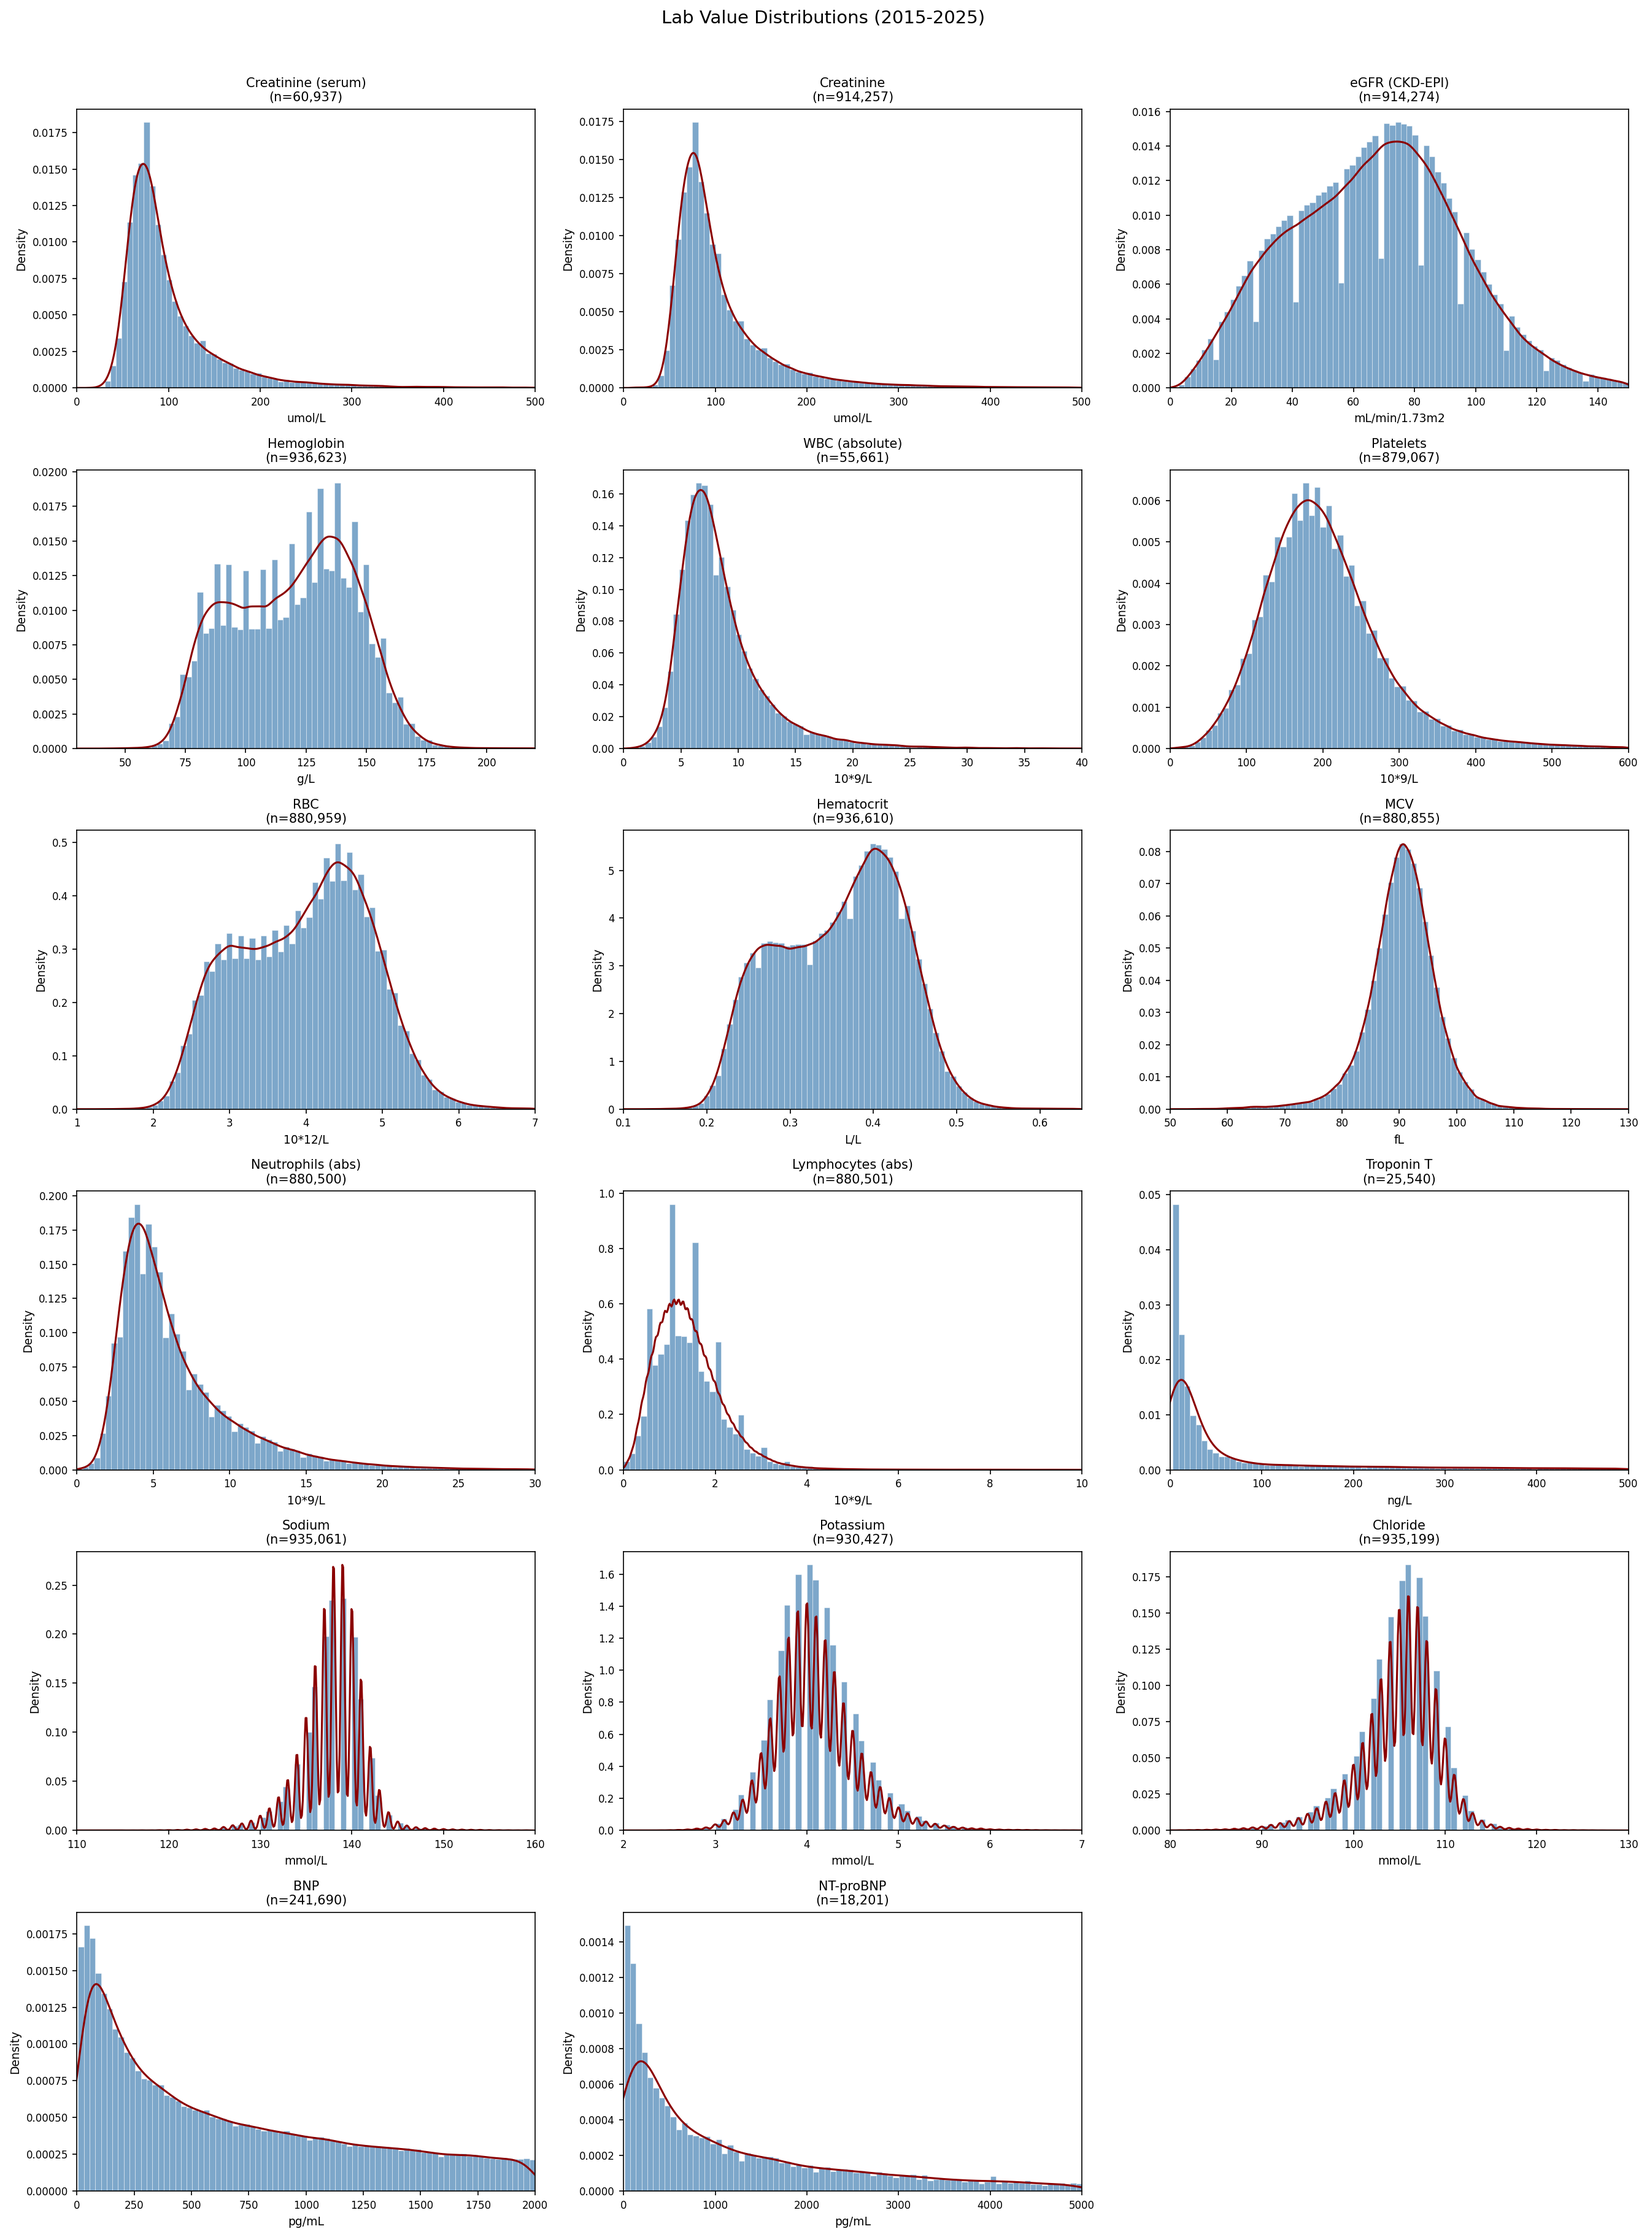
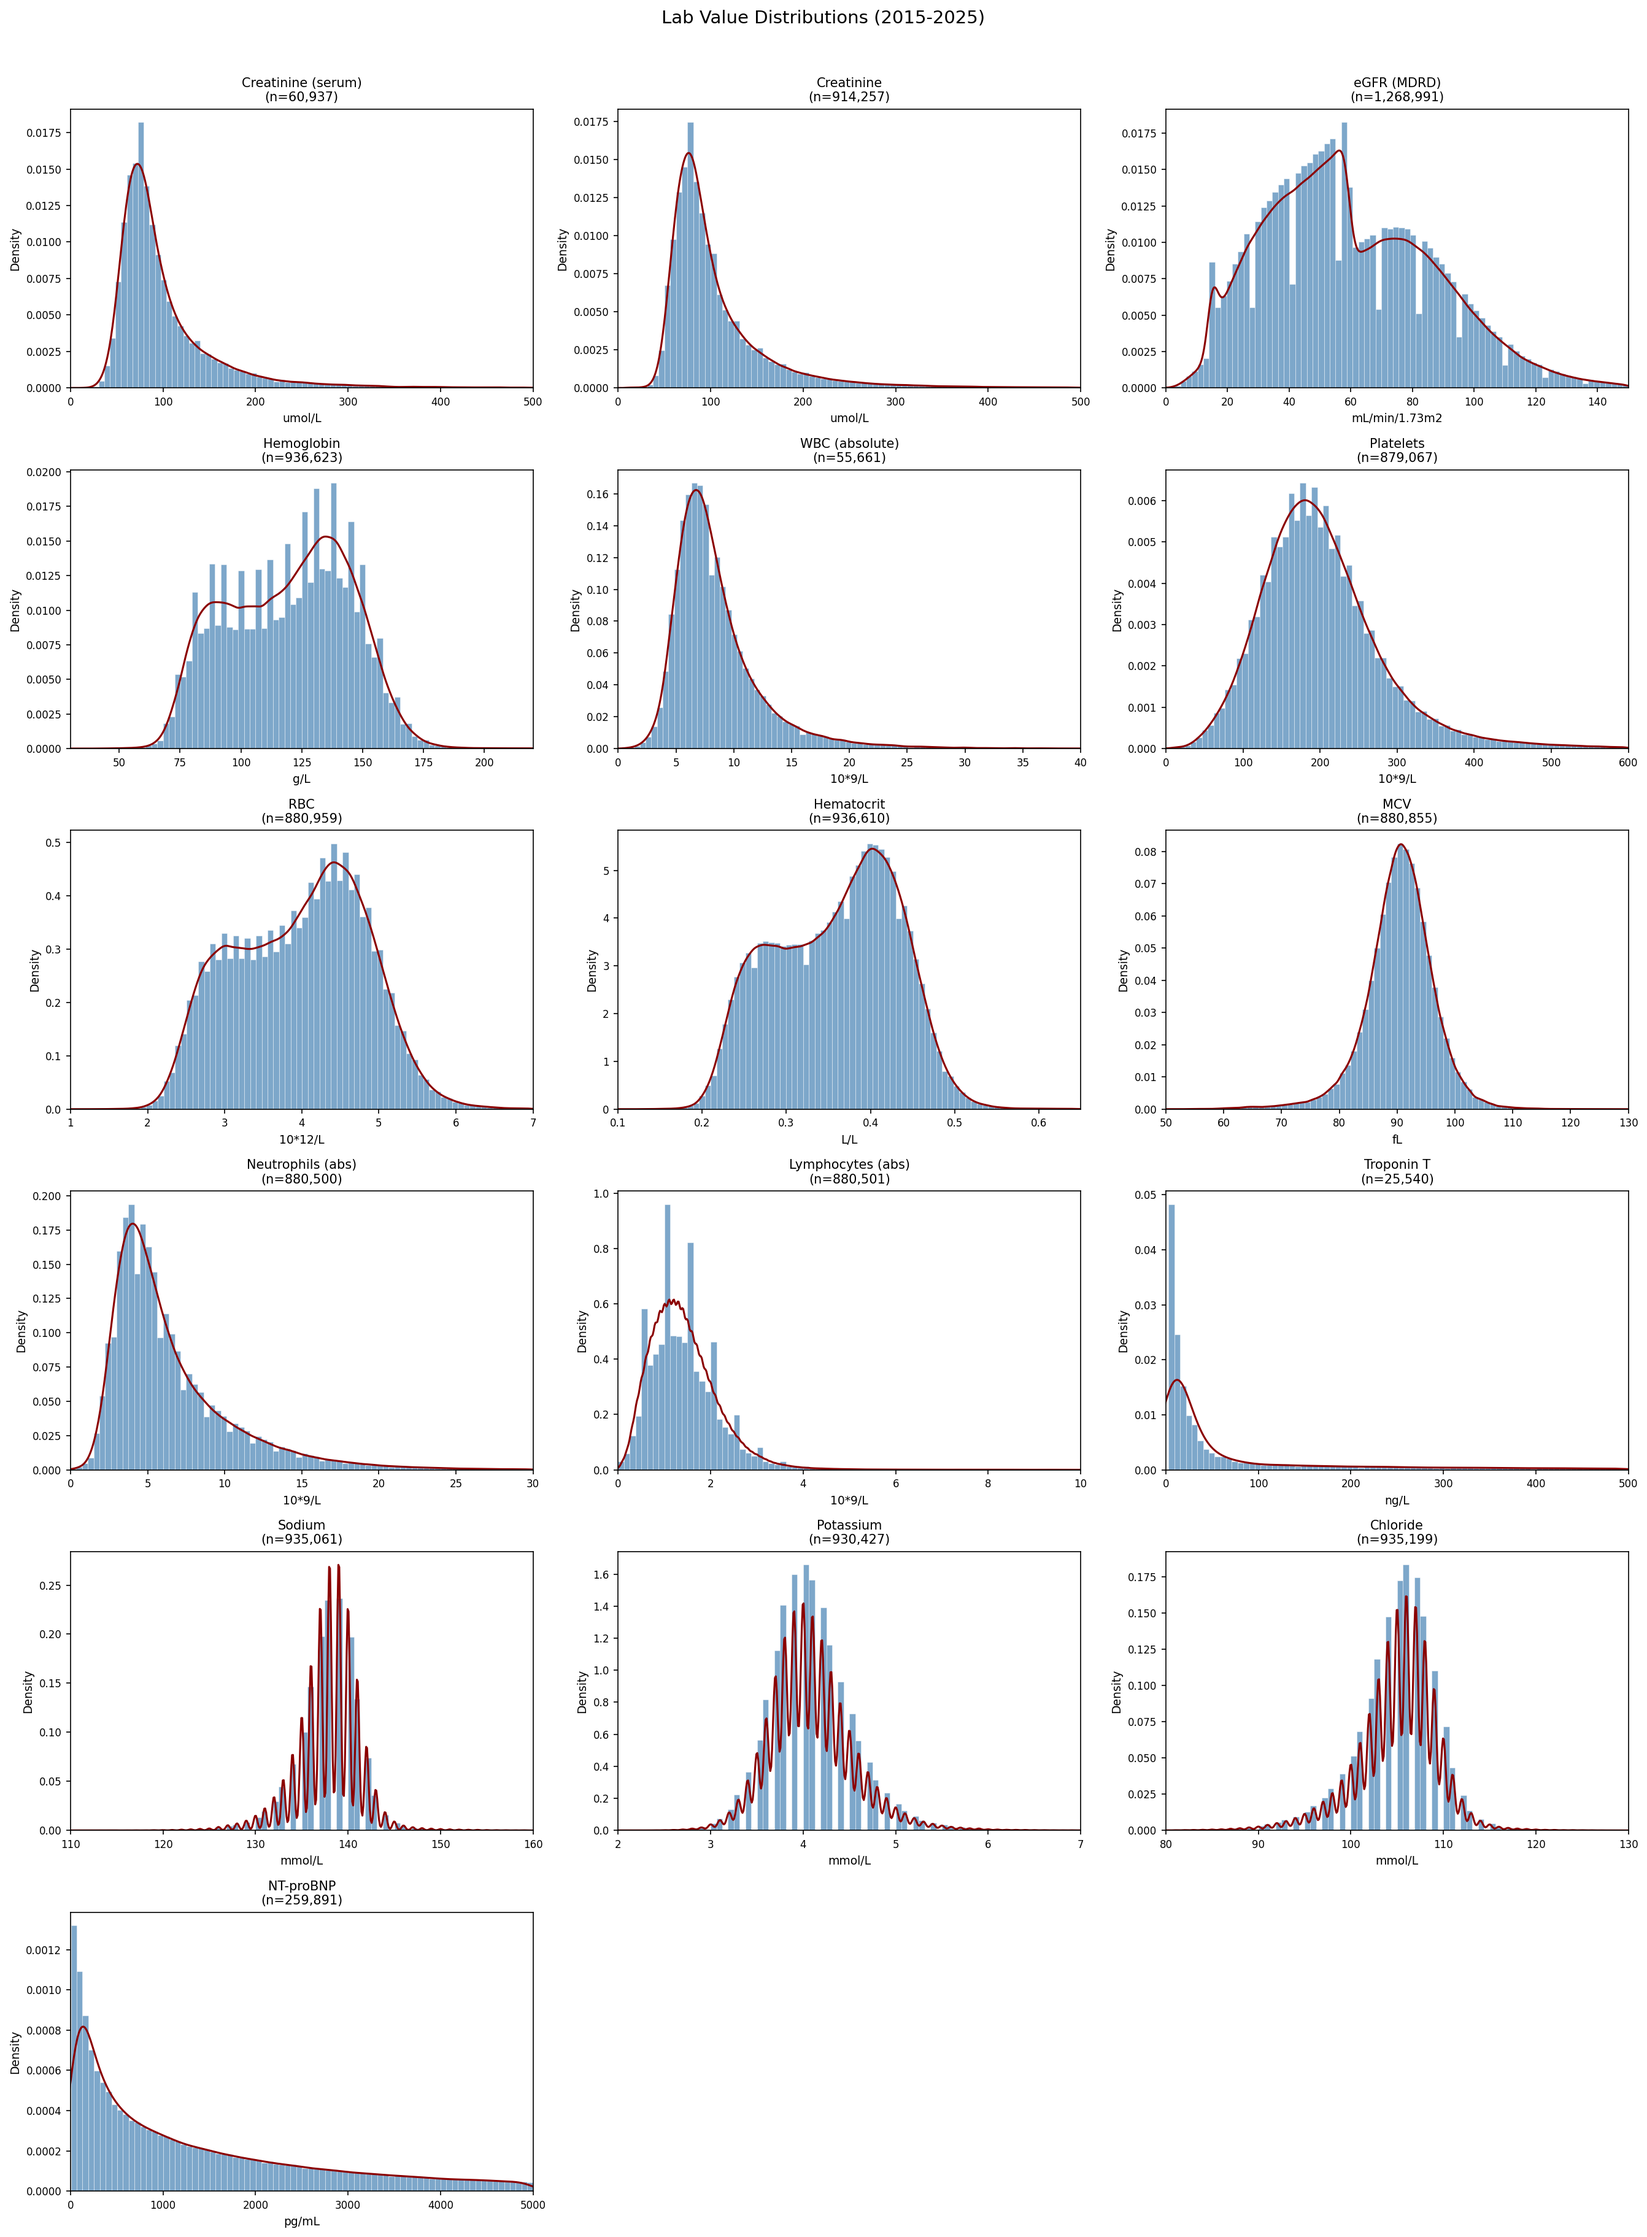
Fix lab mappings against official Softlab TEST_ID reference
Corrected 12 mismatched lab names:
- BNP2: BNP -> NT-proBNP (per reference)
- DFGE4/DFGE5: eGFR (CKD-EPI) -> eGFR (MDRD)
- ANOH1: Aniso (high) -> Abnormal Hemoglobin
- ANOR1: Aniso (ratio) -> Abnormal Reticulocyte Profile
- GRN3/GRN4: Granulocytes -> Nucleated RBC (%)/(abs)
- MORA2: Monocytes (ratio) -> Morphology
- SCEL2: Schistocytes -> Sickle Cells (Falciform)
- SHIS3: Histogram flag -> RBC Fragments/Microcytes
- SAER2/SAPL2: satellite -> Aggregation
- SBLA2: Blasts (satel.) -> Blasts

diff --git a/build_master.py b/build_master.py
@@ -44,15 +44,15 @@ LAB_MAP = {
     # --- Creatinine ---
     ("CREA", "CREAS"):  ("Creatinine", "Creatinine (serum)"),
     ("CREA", "CREI2"):  ("Creatinine", "Creatinine"),
-    ("CREA", "DFGE4"):  ("Creatinine", "eGFR (CKD-EPI)"),
-    ("CREA", "DFGE5"):  ("Creatinine", "eGFR"),
+    ("CREA", "DFGE4"):  ("Creatinine", "eGFR (MDRD)"),
+    ("CREA", "DFGE5"):  ("Creatinine", "eGFR (MDRD)"),
     ("CREA", "ASP1"):   ("Creatinine", "Specimen appearance"),
 
     # --- Troponin ---
     ("TTROP", "TROT"):  ("Troponin", "Troponin T"),
 
     # --- BNP ---
-    ("BNP",  "BNP2"):   ("BNP", "BNP"),
+    ("BNP",  "BNP2"):   ("BNP", "NT-proBNP"),
     ("NBNP", "NBNP"):   ("BNP", "NT-proBNP"),
 
     # --- Electrolytes ---
@@ -66,7 +66,7 @@ LAB_MAP = {
 
     # --- CBC (FSC = Formule Sanguine Complete) ---
     ("FSC", "GBA"):     ("CBC", "WBC (absolute)"),
-    ("FSC", "GBC2"):    ("CBC", "WBC"),
+    ("FSC", "GBC2"):    ("CBC", "WBC (uncorrected)"),
     ("FSC", "LEU1"):    ("CBC", "WBC"),
     ("FSC", "ERY1"):    ("CBC", "RBC"),
     ("FSC", "HB"):      ("CBC", "Hemoglobin"),
@@ -103,8 +103,8 @@ LAB_MAP = {
     ("FSC", "MONA"):    ("CBC", "Monocytes (auto abs)"),
     ("FSC", "MONAP"):   ("CBC", "Monocytes (auto %)"),
     ("FSC", "MONCT"):   ("CBC", "Monocytes"),
-    ("FSC", "MORA2"):   ("CBC", "Monocytes (ratio)"),
-    ("FSC", "MORPW"):   ("CBC", "Monocytes (ratio PW)"),
+    ("FSC", "MORA2"):   ("CBC", "Morphology"),
+    ("FSC", "MORPW"):   ("CBC", "Morphology (PW)"),
     ("FSC", "EOA1"):    ("CBC", "Eosinophils (abs)"),
     ("FSC", "EOR1"):    ("CBC", "Eosinophils (%)"),
     ("FSC", "EOSA"):    ("CBC", "Eosinophils (auto abs)"),
@@ -122,13 +122,13 @@ LAB_MAP = {
     ("FSC", "PDW1"):    ("CBC", "PDW"),
     ("FSC", "PCT1"):    ("CBC", "Plateletcrit"),
     ("FSC", "NRBC1"):   ("CBC", "NRBC"),
-    ("FSC", "NRBCS"):   ("CBC", "NRBC (stain)"),
+    ("FSC", "NRBCS"):   ("CBC", "Nucleated RBC suspect"),
     ("FSC", "GRA"):     ("CBC", "Granulocytes (auto abs)"),
     ("FSC", "GRIAP"):   ("CBC", "Immature granulocytes (auto %)"),
     ("FSC", "GRIM"):    ("CBC", "Immature granulocytes"),
     ("FSC", "GRIMN"):   ("CBC", "Immature granulocytes (manual)"),
-    ("FSC", "GRN3"):    ("CBC", "Granulocytes (abs)"),
-    ("FSC", "GRN4"):    ("CBC", "Granulocytes"),
+    ("FSC", "GRN3"):    ("CBC", "Nucleated RBC (%)"),
+    ("FSC", "GRN4"):    ("CBC", "Nucleated RBC (abs)"),
     ("FSC", "GRNA"):    ("CBC", "Granulocytes (auto)"),
     ("FSC", "GRNLA"):   ("CBC", "Large granulocytes (auto)"),
     ("FSC", "GRNUC"):   ("CBC", "Granulocytes (nucleated)"),
@@ -141,18 +141,18 @@ LAB_MAP = {
     ("FSC", "IMMG"):    ("CBC", "Immature granulocytes"),
     ("FSC", "SMA"):     ("CBC", "Smudge cells (auto)"),
     ("FSC", "ANIS2"):   ("CBC", "Anisocytosis"),
-    ("FSC", "ANOH1"):   ("CBC", "Aniso (high)"),
-    ("FSC", "ANOR1"):   ("CBC", "Aniso (ratio)"),
+    ("FSC", "ANOH1"):   ("CBC", "Abnormal Hemoglobin"),
+    ("FSC", "ANOR1"):   ("CBC", "Abnormal Reticulocyte Profile"),
     ("FSC", "DIMR"):    ("CBC", "Dimorphic RBC"),
     ("FSC", "HYPO2"):   ("CBC", "Hypochromia"),
     ("FSC", "MACR2"):   ("CBC", "Macrocytosis"),
     ("FSC", "MICR2"):   ("CBC", "Microcytosis"),
     ("FSC", "PANC2"):   ("CBC", "Pancytopenia"),
-    ("FSC", "SAER2"):   ("CBC", "RBC satel."),
-    ("FSC", "SAPL2"):   ("CBC", "Platelet satel."),
-    ("FSC", "SBLA2"):   ("CBC", "Blasts (satel.)"),
-    ("FSC", "SCEL2"):   ("CBC", "Schistocytes"),
-    ("FSC", "SHIS3"):   ("CBC", "Histogram flag"),
+    ("FSC", "SAER2"):   ("CBC", "Erythrocyte Aggregation"),
+    ("FSC", "SAPL2"):   ("CBC", "Platelet Aggregation"),
+    ("FSC", "SBLA2"):   ("CBC", "Blasts"),
+    ("FSC", "SCEL2"):   ("CBC", "Sickle Cells (Falciform)"),
+    ("FSC", "SHIS3"):   ("CBC", "RBC Fragments/Microcytes"),
     ("FSC", "SPOI2"):   ("CBC", "Poikilocytosis"),
     ("FSC", "COM1"):    ("CBC", "Comment 1"),
     ("FSC", "COM4"):    ("CBC", "Comment 4"),

diff --git a/plot_distributions.py b/plot_distributions.py
@@ -55,7 +55,7 @@ print("  Saved coverage_heatmap.png", flush=True)
 KEY_LABS = {
     "Creatinine (serum)":  {"unit": "umol/L",    "xlim": (0, 500),     "category": "Creatinine"},
     "Creatinine":          {"unit": "umol/L",     "xlim": (0, 500),     "category": "Creatinine"},
-    "eGFR (CKD-EPI)":     {"unit": "mL/min/1.73m2", "xlim": (0, 150), "category": "Creatinine"},
+    "eGFR (MDRD)":         {"unit": "mL/min/1.73m2", "xlim": (0, 150), "category": "Creatinine"},
     "Hemoglobin":          {"unit": "g/L",        "xlim": (30, 220),    "category": "CBC"},
     "WBC (absolute)":      {"unit": "10*9/L",     "xlim": (0, 40),      "category": "CBC"},
     "Platelets":           {"unit": "10*9/L",     "xlim": (0, 600),     "category": "CBC"},
@@ -68,7 +68,6 @@ KEY_LABS = {
     "Sodium":              {"unit": "mmol/L",     "xlim": (110, 160),   "category": "Electrolytes"},
     "Potassium":           {"unit": "mmol/L",     "xlim": (2, 7),       "category": "Electrolytes"},
     "Chloride":            {"unit": "mmol/L",     "xlim": (80, 130),    "category": "Electrolytes"},
-    "BNP":                 {"unit": "pg/mL",      "xlim": (0, 2000),    "category": "BNP"},
     "NT-proBNP":           {"unit": "pg/mL",      "xlim": (0, 5000),    "category": "BNP"},
 }
 
